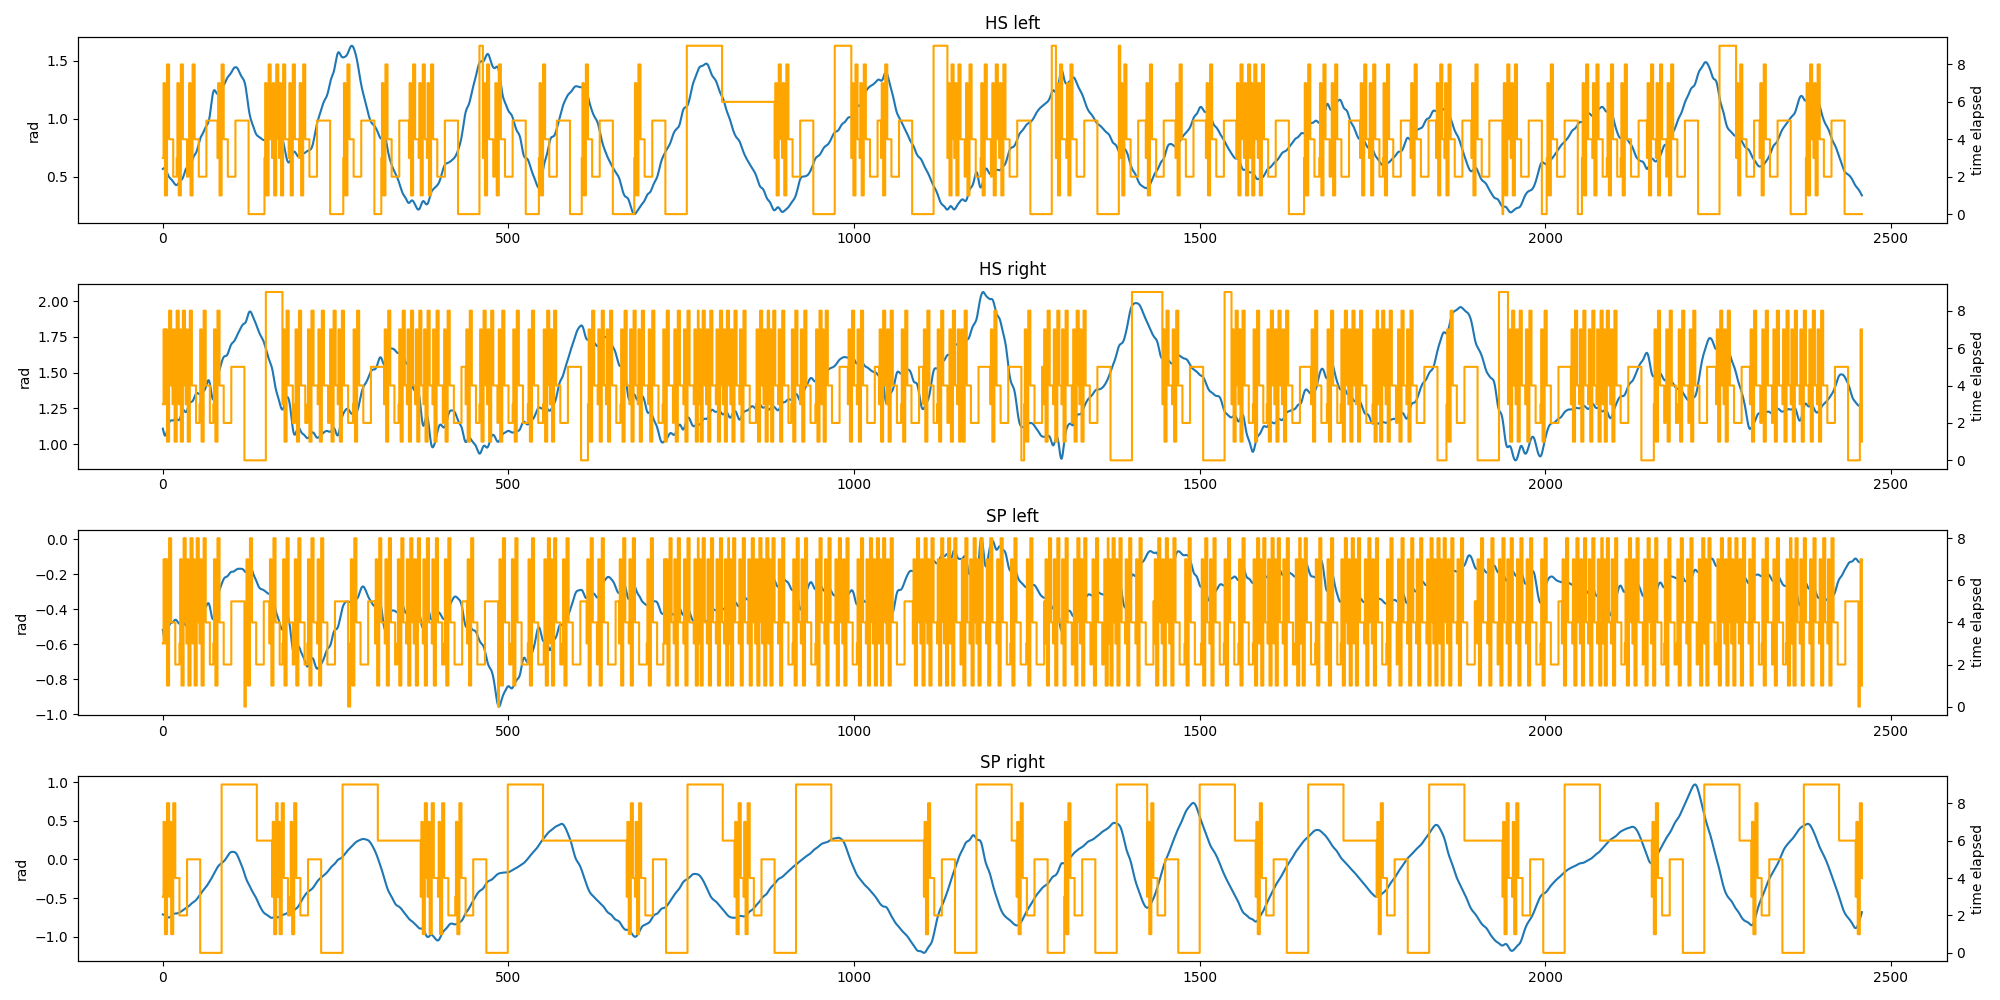
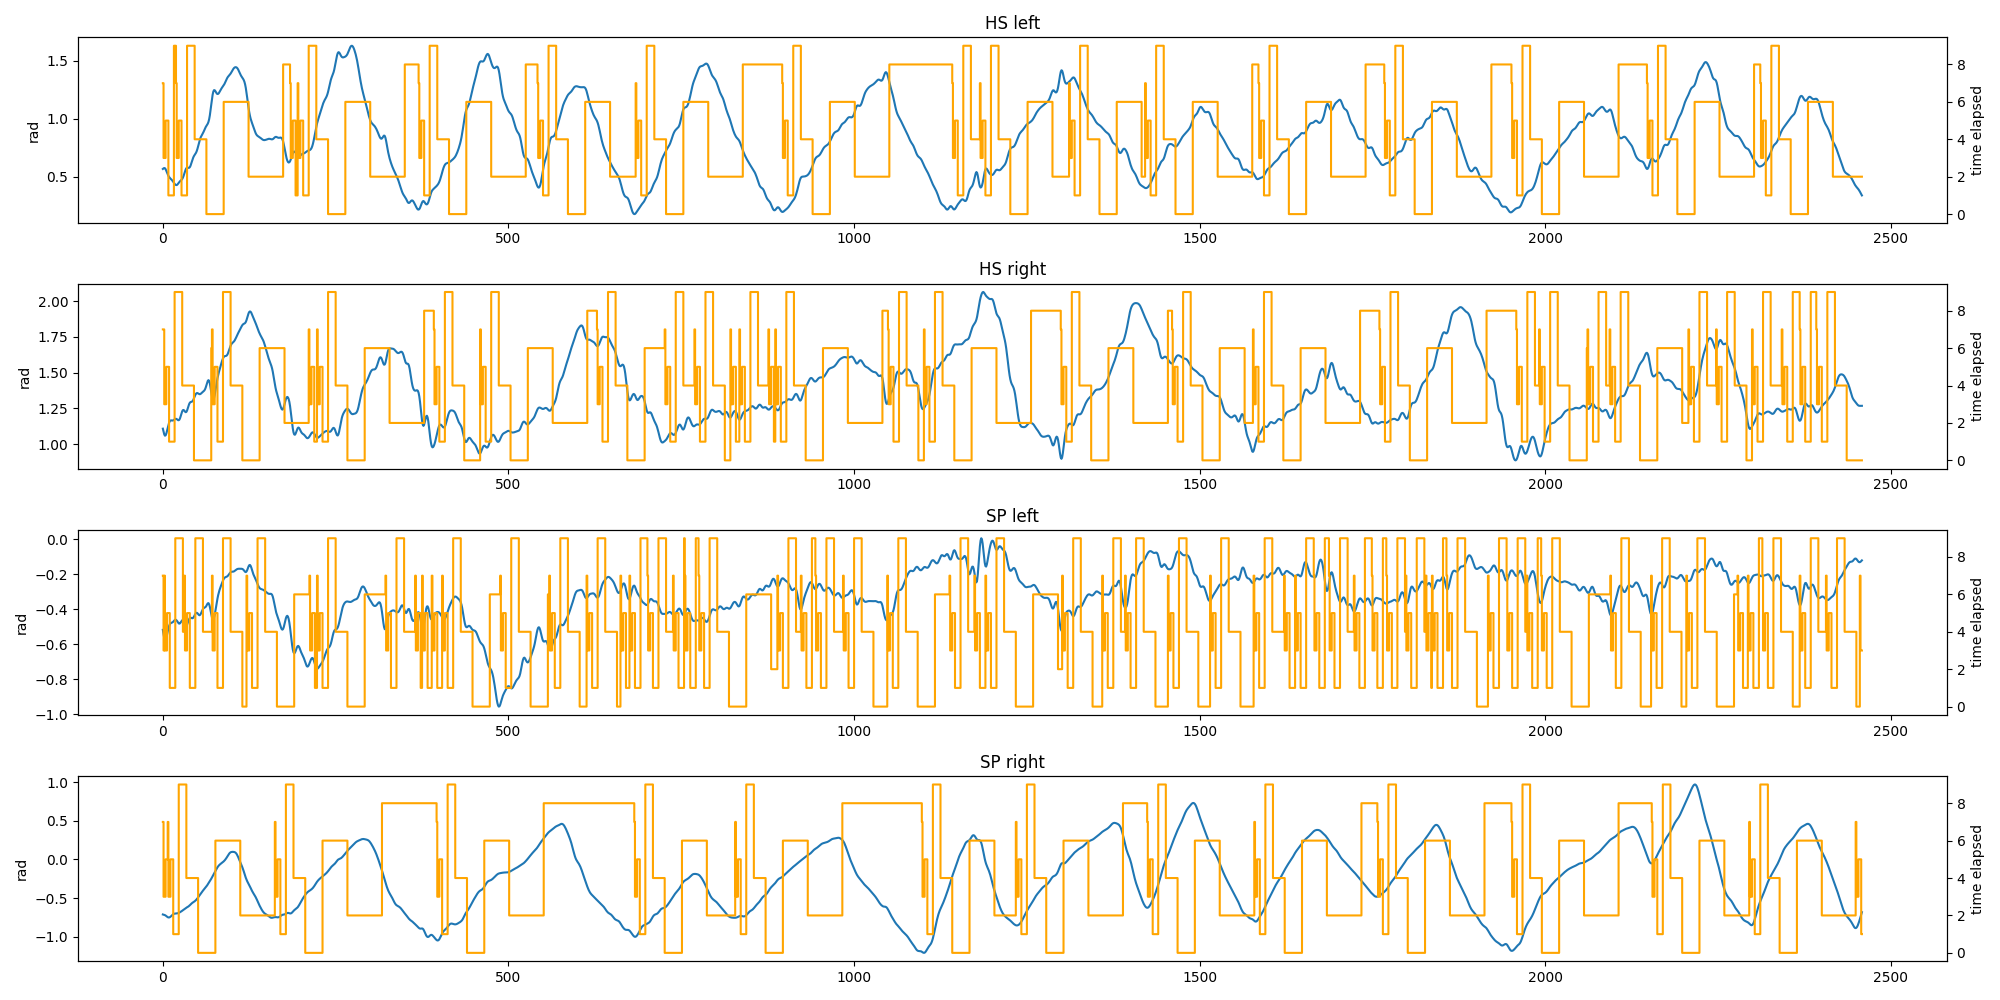
commit

diff --git a/expert_demonstration/phase_encode.py b/expert_demonstration/phase_encode.py
@@ -124,6 +124,6 @@ discrete_data = discrete_data.reshape(log_transformed_data.shape)
 # visualize the encoded antenna data and the original antenna data
 antenna_visualization(antenna_01, smoothed_antenna_01, 'smoothed', save=True)
 antenna_visualization(antenna_01, encoded_antenna_01, 'time elapsed', save=True)
-# antenna_visualization(antenna_01, log_transformed_data, 'log time elapsed', save=True)
-# antenna_visualization(antenna_01, discrete_data, 'discrete time elapsed', save=False)
+antenna_visualization(antenna_01, log_transformed_data, 'log time elapsed', save=True)
+antenna_visualization(antenna_01, discrete_data, 'discrete time elapsed', save=True)
 
